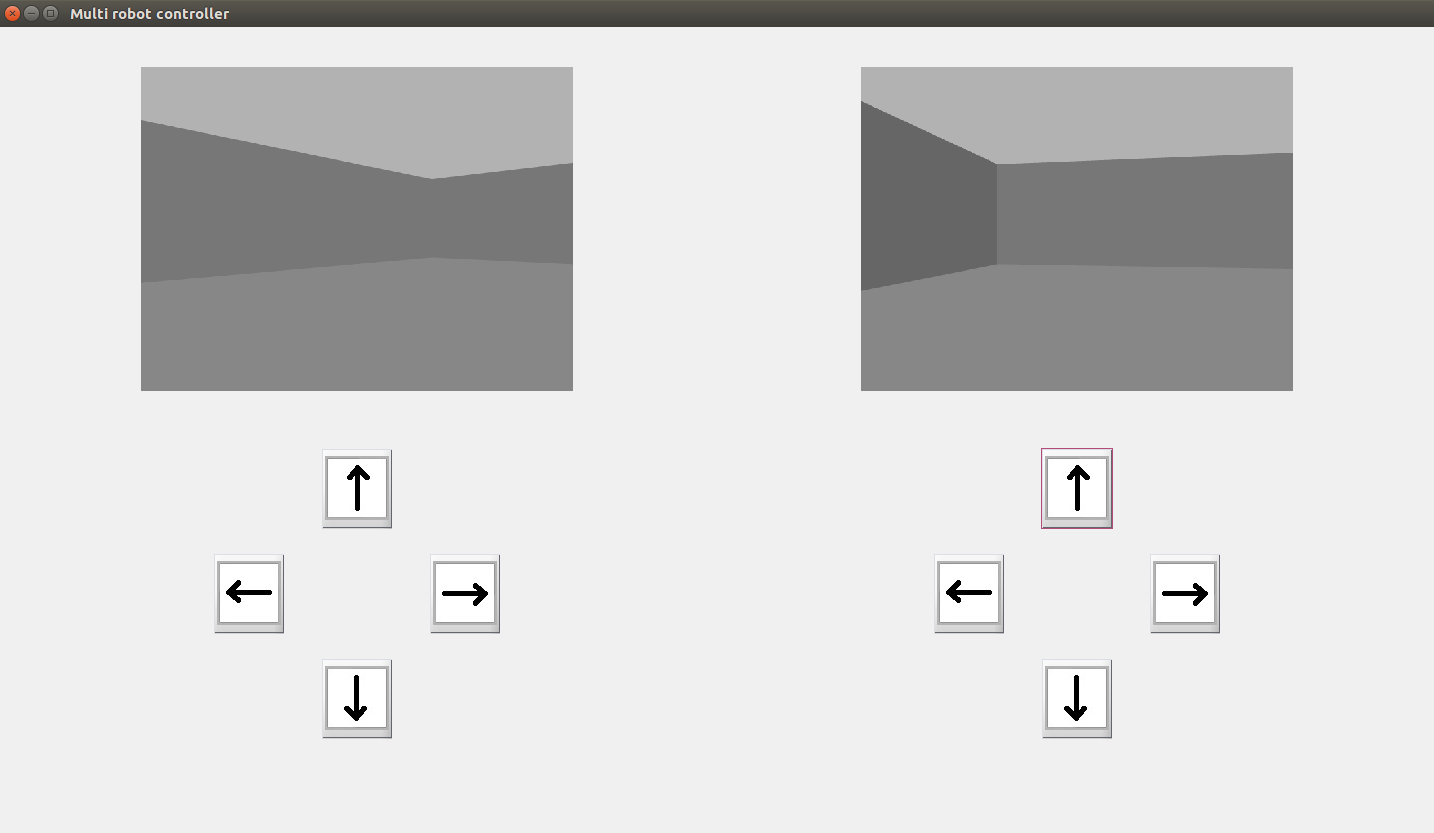
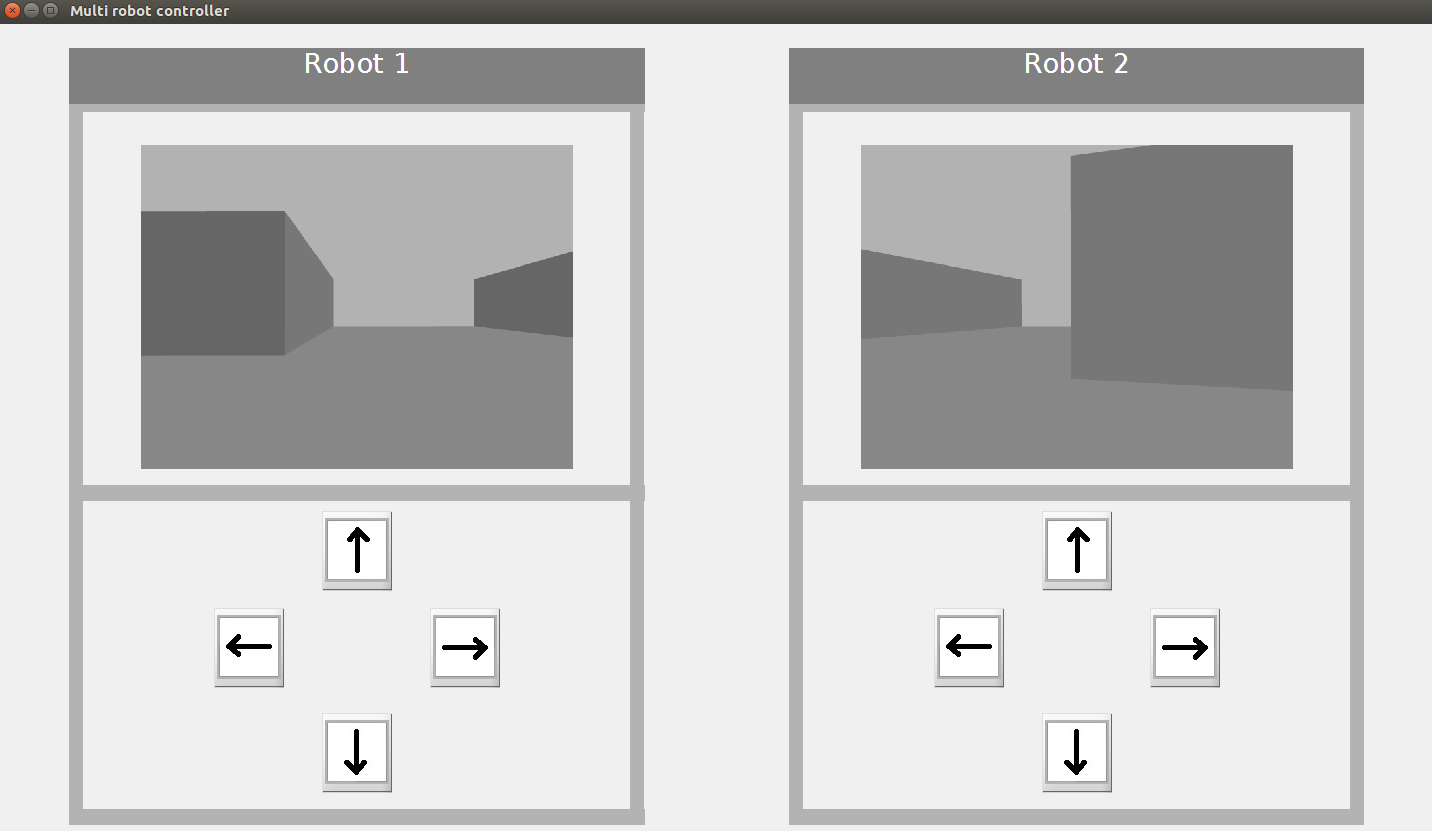
improved GUI and image responsiveness, also keyboard control has been added

diff --git a/createfig.m b/createfig.m
@@ -1,4 +1,4 @@
-function createfig()
+function hfig = createfig()
 	hfig = figure;
 	set(hfig,'numbertitle','off');               % erase figure number
 	set(hfig,'name','Multi robot controller');
@@ -8,17 +8,31 @@ function createfig()
 	set(hfig,'tag','MOSTRARDADES');              % identify figure
     set(hfig,'Units','Normalized','Position',[0.1,0.1,0.75,0.75]);
     
-    %create axes for images
+    %------------------create texts and rectangles------------------------
+    %rectangles for robot 1
+    draw_rectangles(0);
+    %rectangles for robot 2
+    draw_rectangles(0.5);
+    %text for robot1
+    uicontrol('Style', 'text','String','Robot 1',...
+    'Units','Normalized','Position', [0.05 0.9 0.4 0.07],...
+    'BackgroundColor',[0.5 0.5 0.5],'FontSize',20,'ForegroundColor',[1 1 1]);  
+    %text for robot2
+    uicontrol('Style', 'text','String','Robot 2',...
+    'Units','Normalized','Position', [0.55 0.9 0.4 0.07],...
+    'BackgroundColor',[0.5 0.5 0.5],'FontSize',20,'ForegroundColor',[1 1 1]); 
+
+    %-------------------create axes for images----------------------------
     global img1_handle
     global img2_handle
-    img1_handle=axes('Units','Normalized','Position',[0.05 0.55 0.4 0.4]);
-    img2_handle=axes('Units','Normalized','Position',[0.55 0.55 0.4 0.4]);
+    img1_handle=axes('Units','Normalized','Position',[0.05 0.45 0.4 0.4]);
+    img2_handle=axes('Units','Normalized','Position',[0.55 0.45 0.4 0.4]);
     [up,down,left,right]=read_arrows();
     
-    %arrow buttons robots
+    %--------------------arrow buttons robots-----------------------------
     arrow_draw(up,down,left,right)
     
-    %display initial images
+    %-------------------display initial images----------------------------
     display_image()
 end
 function close(obj,event)
@@ -29,30 +43,30 @@ end
 function arrow_draw(up,down,left,right)
     %arrows for robot1
     uicontrol('Style', 'pushbutton','cdata',up,...
-    'Units','Normalized','Position', [0.225 0.38 0.05 0.1],...
+    'Units','Normalized','Position', [0.225 0.3 0.05 0.1],...
     'Callback', @move,'Tag','up');  
     uicontrol('Style', 'pushbutton','cdata',down,...
-    'Units','Normalized','Position', [0.225 0.12 0.05 0.1],...
+    'Units','Normalized','Position', [0.225 0.05 0.05 0.1],...
     'Callback', @move,'Tag','down');
     uicontrol('Style', 'pushbutton','cdata',left,...
-    'Units','Normalized','Position', [0.15 0.25 0.05 0.1],...
+    'Units','Normalized','Position', [0.15 0.18 0.05 0.1],...
     'Callback', @move,'Tag','left');  
     uicontrol('Style', 'pushbutton','cdata',right,...
-    'Units','Normalized','Position', [0.3 0.25 0.05 0.1],...
+    'Units','Normalized','Position', [0.3 0.18 0.05 0.1],...
     'Callback', @move,'Tag','right');
 
     %arrows for robot2
     uicontrol('Style', 'pushbutton','cdata',up,...
-    'Units','Normalized','Position', [0.725 0.38 0.05 0.1],...
+    'Units','Normalized','Position', [0.725 0.3 0.05 0.1],...
     'Callback', @move,'Tag','up2');  
     uicontrol('Style', 'pushbutton','cdata',down,...
-    'Units','Normalized','Position', [0.725 0.12 0.05 0.1],...
+    'Units','Normalized','Position', [0.725 0.05 0.05 0.1],...
     'Callback', @move,'Tag','down2');
     uicontrol('Style', 'pushbutton','cdata',left,...
-    'Units','Normalized','Position', [0.65 0.25 0.05 0.1],...
+    'Units','Normalized','Position', [0.65 0.18 0.05 0.1],...
     'Callback', @move,'Tag','left2');  
     uicontrol('Style', 'pushbutton','cdata',right,...
-    'Units','Normalized','Position', [0.8 0.25 0.05 0.1],...
+    'Units','Normalized','Position', [0.8 0.18 0.05 0.1],...
     'Callback', @move,'Tag','right2');
 end
 function [up,down,left,right]=read_arrows()

diff --git a/move.m b/move.m
@@ -1,49 +1,56 @@
 function move(obj,event)
-    %Obtain the tag for the pressed button
-    ID=obj.Tag;
-   
+    %update image for any previous movement due to inertia
+    display_image()
+    %Obtain the tag for the pressed button or the key from keyboard
+    if strcmp(event.EventName,'KeyPress')
+        key=event.Key;
+        ID=[];
+    else
+        ID=obj.Tag;
+        key=[];
+    end
     %check which button has been pressed
-    if strcmp('up',ID)%move up robot 1
+    if strcmp('up',ID)|| strcmp('w',key)%move up robot 1
         for c=1:1:100
             send_velocity(1,0)
         end
     end
-    if strcmp('down',ID)%move down robot 1
+    if strcmp('down',ID) || strcmp('s',key)%move down robot 1
         for c=1:1:100
             send_velocity(-1,0)
         end
     end
-    if strcmp('left',ID)%move left robot 1
+    if strcmp('left',ID) || strcmp('a',key)%move left robot 1
         for c=1:1:100
             send_velocity(0,1)
         end
     end
-    if strcmp('right',ID)%move right robot 1
+    if strcmp('right',ID) || strcmp('d',key)%move right robot 1
         for c=1:1:100
             send_velocity(0,-1)
         end
     end
-    if strcmp('up2',ID)%move up robot 2
+    if strcmp('up2',ID) || strcmp('uparrow',key)%move up robot 2
         for c=1:1:100
             send_velocity2(1,0)
         end    
     end
-    if strcmp('down2',ID)%move down robot 2
+    if strcmp('down2',ID) || strcmp('downarrow',key)%move down robot 2
         for c=1:1:100
             send_velocity2(-1,0)
         end
     end
-    if strcmp('left2',ID)%move left robot 2
+    if strcmp('left2',ID) || strcmp('leftarrow',key)%move left robot 2
         for c=1:1:100
             send_velocity2(0,1)
         end
     end
-    if strcmp('right2',ID)%move right robot 2
+    if strcmp('right2',ID) || strcmp('rightarrow',key)%move right robot 2
         for c=1:1:100
             send_velocity2(0,-1)
         end
     end
-    
+    %wait to update images
     %update images
     display_image()
 end

diff --git a/draw_rectangles.m b/draw_rectangles.m
@@ -1,0 +1,18 @@
+function draw_rectangles(x)
+    uicontrol('Style', 'text',...
+    'Units','Normalized','Position', [0.44+x 0.01 0.01 0.9],...
+    'BackgroundColor',[0.7 0.7 0.7]); 
+    uicontrol('Style', 'text',...
+    'Units','Normalized','Position', [0.05+x 0.01 0.01 0.9],...
+    'BackgroundColor',[0.7 0.7 0.7]); 
+    uicontrol('Style', 'text',...
+    'Units','Normalized','Position', [0.05+x 0.41 0.4 0.02],...
+    'BackgroundColor',[0.7 0.7 0.7]); 
+    uicontrol('Style', 'text',...
+    'Units','Normalized','Position', [0.05+x 0.89 0.4 0.02],...
+    'BackgroundColor',[0.7 0.7 0.7]); 
+    uicontrol('Style', 'text',...
+    'Units','Normalized','Position', [0.05+x 0.01 0.4 0.02],...
+    'BackgroundColor',[0.7 0.7 0.7]); 
+end
+

diff --git a/test.m b/test.m
@@ -20,7 +20,9 @@ vel2_pub = rospublisher('/robot1/mobile_base/commands/velocity');
 
 
 %---------------create the figure------------------------
-createfig();
+hfig = createfig();
 
+%---------------wait for key press----------------------
+set(hfig,'KeyPressFcn',@move);
 
 
